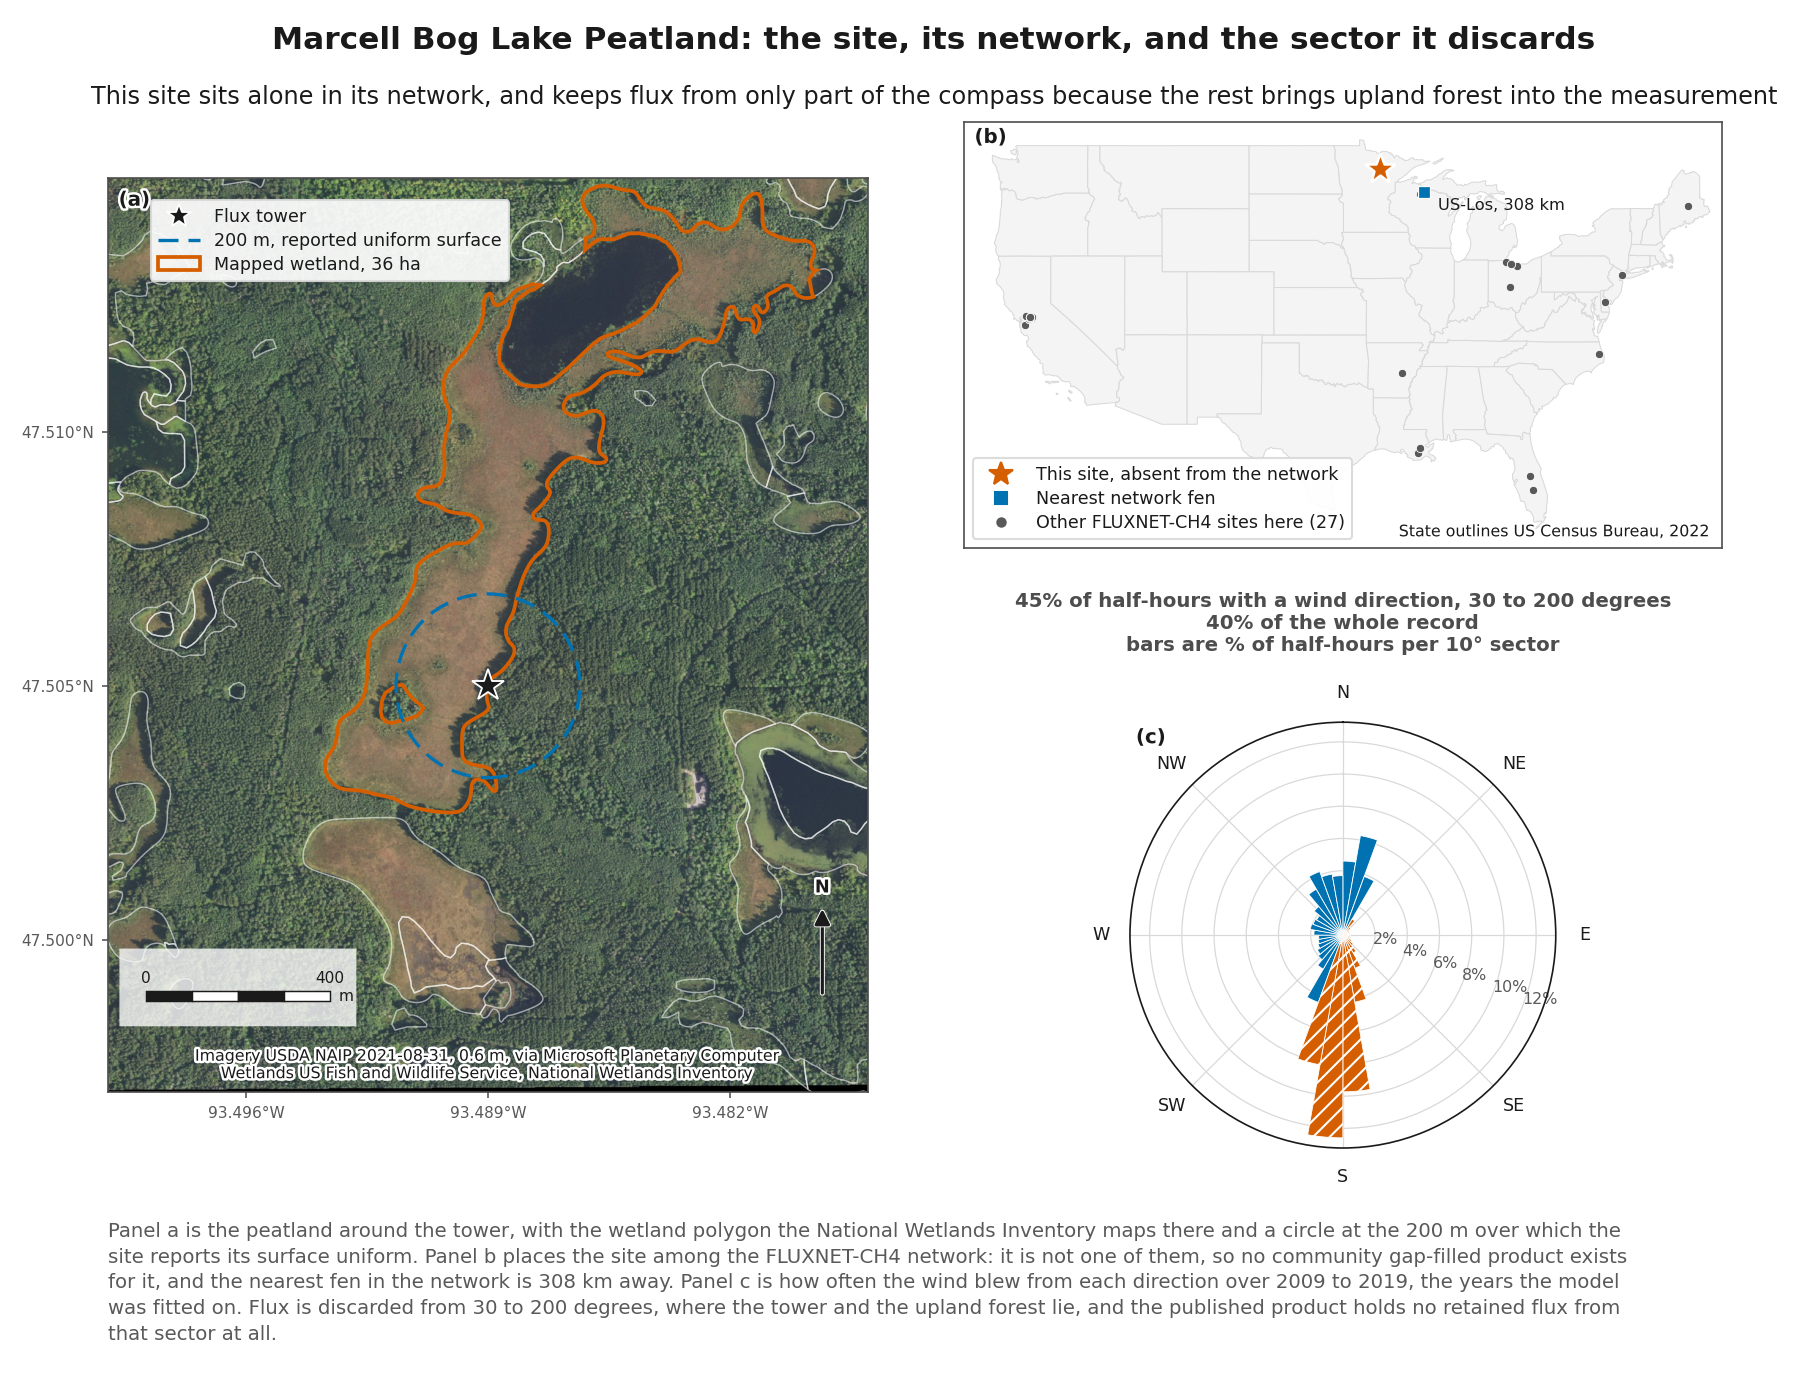
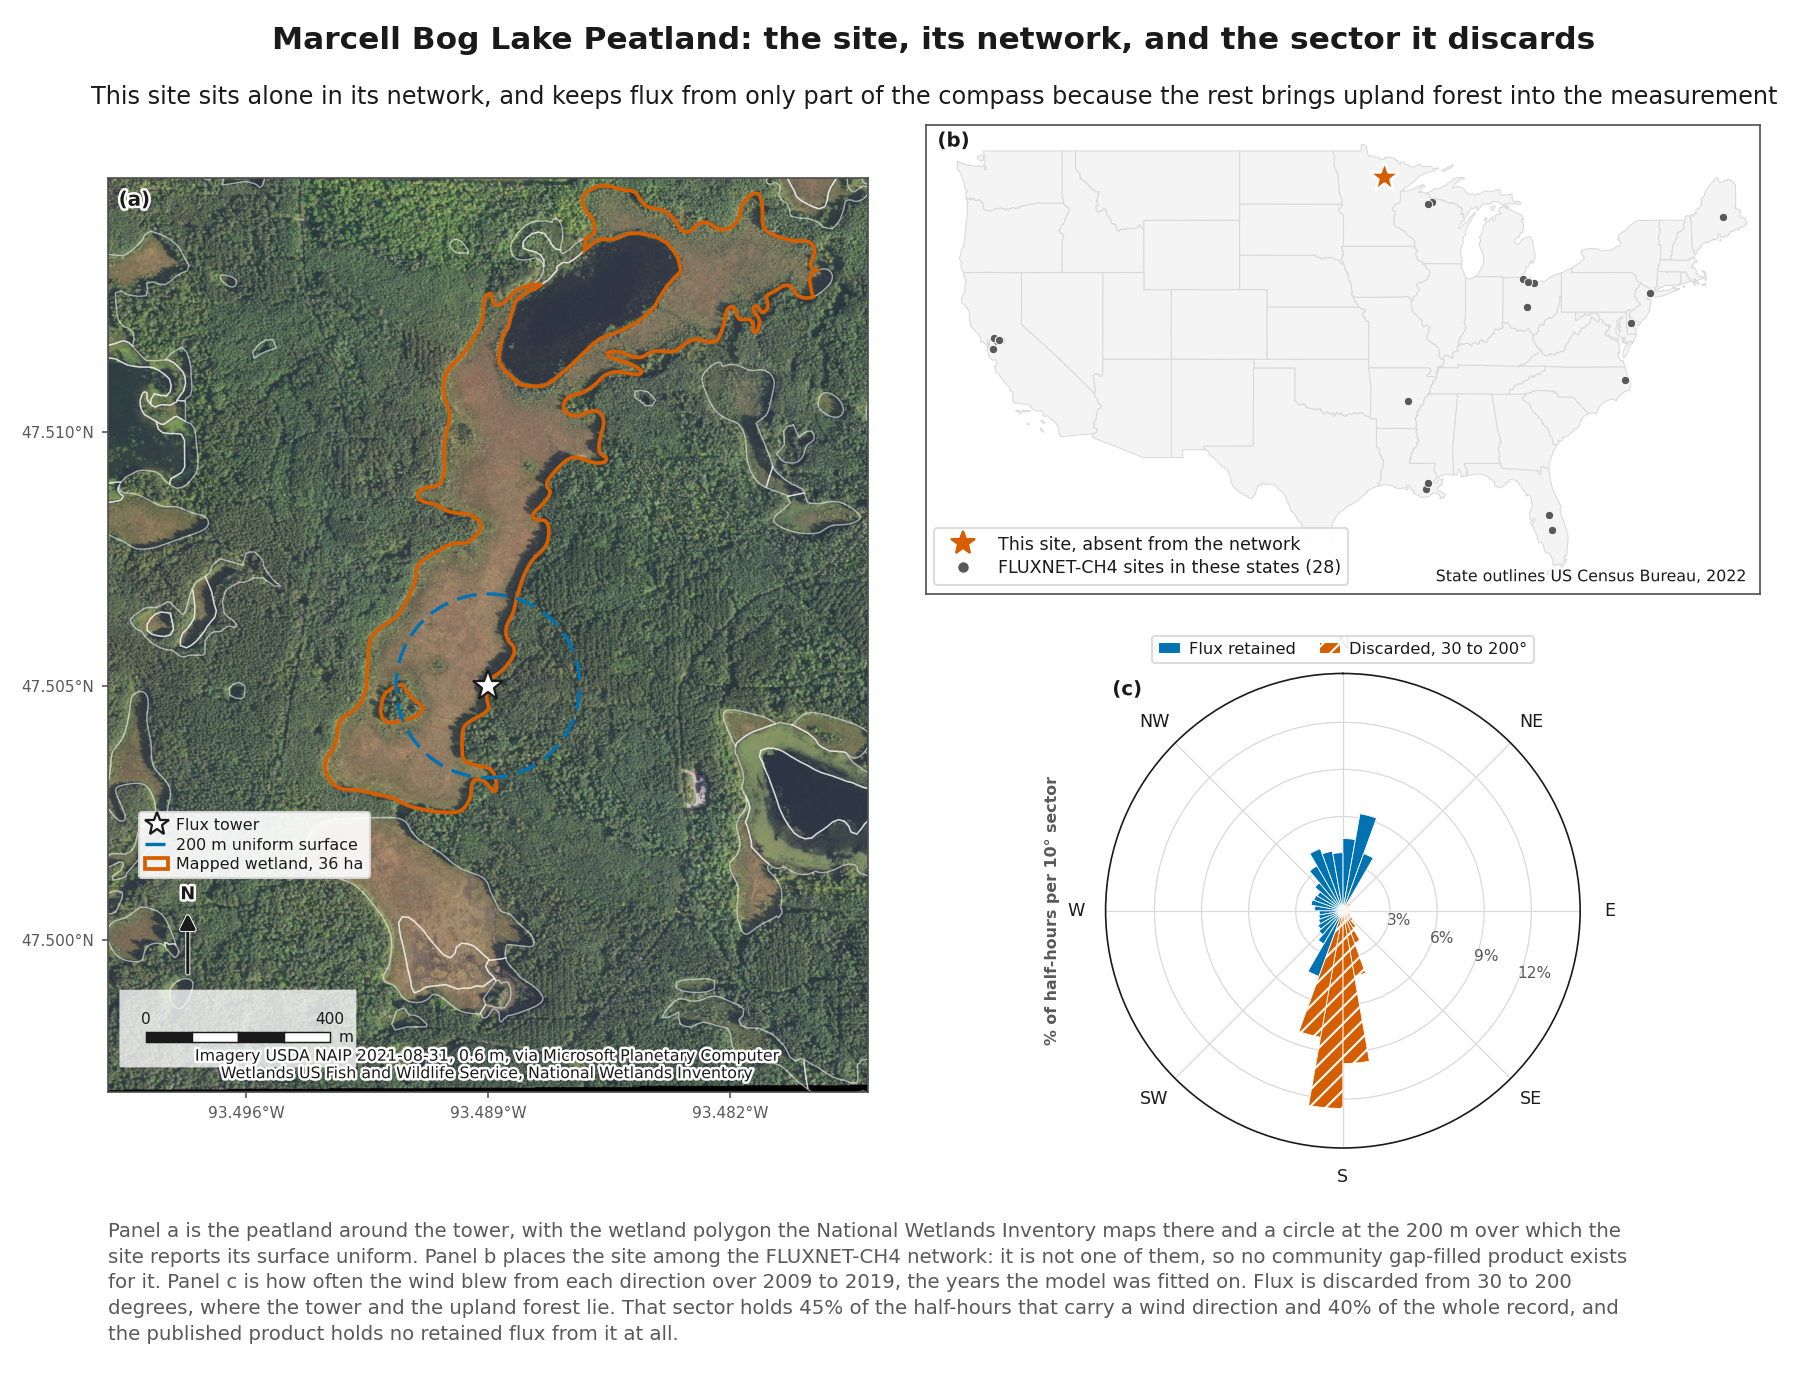
Drop the panel titles and key the wind rose
One panel carried a title and the others did not, and its three stacked lines
described three different things. Remove it. The two shares move into the
description, where they can be said in a sentence: the sector holds 45% of the
half-hours that carry a wind direction and 40% of the whole record. The bar
unit becomes the radial axis label.

With no title, nothing said what the two colors in the rose meant, so it gains
a two-entry key above the bars. Radial rings stop short of the outer edge so
no label sits on the frame.

Take the nearest network fen off the site map. The panel's claim is that this
site is not in the network, which the dots make on their own; marking the
nearest fen asked the reader to work out why 308 km mattered.

Shrink the site legend and stack it with the north arrow and scale bar as one
apparatus block in the lower left, clear of the mapped wetland it was covering.

Give the tower a white star with a dark edge, which reads the same over dark
forest, over light peat, and on the legend's white ground. The previous filled
marker with a white halo read as two different markers in the two places.

diff --git a/src/study/sitemap.py b/src/study/sitemap.py
@@ -30,7 +30,8 @@ from study import plotstyle as ps
 #: Extent of the imagery crop, degrees, matching the file stored under geodata/.
 IMAGE_BOUNDS = (-93.500, 47.497, -93.478, 47.515)
 
-#: Imagery provenance, stated inside the panel that uses it.
+#: Imagery provenance. The scene identifier is not drawn, but it is what makes
+#: the stored crop reproducible, so it is recorded beside the credit that is.
 IMAGE_SCENE = "mn_m_4709329_sw_15_060_20210831"
 IMAGE_DATE = "2021-08-31"
 IMAGE_CREDIT = "Imagery USDA NAIP 2021-08-31, 0.6 m, via Microsoft Planetary Computer"
@@ -44,11 +45,11 @@ SURFACE_HOMOGENEITY_M = 200.0
 EXCLUDED_SECTOR = (30.0, 200.0)
 
 #: The tower, drawn the same way on the map and in the legend.
-TOWER_MARKER = dict(marker="*", markersize=16, markerfacecolor=ps.INK,
-                    markeredgecolor="white", markeredgewidth=0.9, linestyle="none")
+#: White fill with a dark edge, so the tower reads the same over dark forest,
+#: over light peat, and on the legend's white ground.
+TOWER_MARKER = dict(marker="*", markersize=15, markerfacecolor="white",
+                    markeredgecolor=ps.INK, markeredgewidth=1.1, linestyle="none")
 
-#: The nearest network site of the same wetland class, named in the notes.
-NEAREST_FEN = "US-Los"
 
 SITEMAP_TEXT = ps.FigureText(
     title="Marcell Bog Lake Peatland: the site, its network, and the sector it discards",
@@ -61,11 +62,12 @@ SITEMAP_TEXT = ps.FigureText(
         "National Wetlands Inventory maps there and a circle at the 200 m over which "
         "the site reports its surface uniform. Panel b places the site among the "
         "FLUXNET-CH4 network: it is not one of them, so no community gap-filled "
-        "product exists for it, and the nearest fen in the network is 308 km away. "
-        "Panel c is how often the wind blew from each direction over 2009 to 2019, "
-        "the years the model was fitted on. Flux is discarded from 30 to 200 "
-        "degrees, where the tower and the upland forest lie, and the published "
-        "product holds no retained flux from that sector at all."
+        "product exists for it. Panel c is how often the wind blew from each "
+        "direction over 2009 to 2019, the years the model was fitted on. Flux is "
+        "discarded from 30 to 200 degrees, where the tower and the upland forest "
+        "lie. That sector holds 45% of the half-hours that carry a wind direction "
+        "and 40% of the whole record, and the published product holds no retained "
+        "flux from it at all."
     ),
 )
 
@@ -178,8 +180,8 @@ def draw_site(ax, image, wetlands: dict, origin: tuple[float, float]) -> None:
     for spine in ax.spines.values():
         spine.set_edgecolor(ps.BOUNDARY)
 
-    ps.scale_bar(ax, 400)
-    ps.north_arrow(ax)
+    ps.scale_bar(ax, 400, corner=(0.05, 0.055))
+    ps.north_arrow(ax, at=(0.105, 0.145), size=0.055)
     ps.credit(ax, f"{IMAGE_CREDIT}\n{WETLAND_CREDIT}")
 
     acres = tower_ring["acres"] if tower_ring else 0.0
@@ -187,13 +189,13 @@ def draw_site(ax, image, wetlands: dict, origin: tuple[float, float]) -> None:
         Line2D([], [], label="Flux tower",
                **{**TOWER_MARKER, "markersize": 12}),
         Line2D([], [], color=ps.INSIDE, linestyle=(0, (6, 3)), linewidth=1.6,
-               label=f"{SURFACE_HOMOGENEITY_M:.0f} m, reported uniform surface"),
+               label=f"{SURFACE_HOMOGENEITY_M:.0f} m uniform surface"),
         Patch(facecolor="none", edgecolor=ps.OUTSIDE, linewidth=1.8,
               label=f"Mapped wetland, {acres * 0.4047:.0f} ha"),
     ]
     ps.legend(ax, handles=handles, labels=[h.get_label() for h in handles],
-              loc="upper left", fontsize=8.4, borderpad=0.42, labelspacing=0.34,
-              bbox_to_anchor=(0.045, 0.985))
+              loc="lower left", fontsize=7.6, borderpad=0.38, labelspacing=0.3,
+              handlelength=1.5, handletextpad=0.5, bbox_to_anchor=(0.03, 0.225))
 
 
 def _coordinate_ticks(ax, origin: tuple[float, float]) -> None:
@@ -223,19 +225,10 @@ def draw_network(ax, states: dict, sites: pd.DataFrame,
                                  edgecolor=ps.GRID, linewidth=0.5, zorder=0))
 
     inside = sites[sites.LON.between(-128, -65) & sites.LAT.between(24, 50)]
-    nearest = inside[inside.SITE_ID == NEAREST_FEN]
-    others = inside[inside.SITE_ID != NEAREST_FEN]
-    ax.plot(others.LON, others.LAT, linestyle="none", marker="o", markersize=4.0,
+    ax.plot(inside.LON, inside.LAT, linestyle="none", marker="o", markersize=4.0,
             color=ps.MUTED, markeredgecolor="white", markeredgewidth=0.4, zorder=3)
-    ax.plot(nearest.LON, nearest.LAT, linestyle="none", marker="s", markersize=5.6,
-            color=ps.INSIDE, markeredgecolor="white", markeredgewidth=0.6, zorder=4)
     ax.plot(here[0], here[1], marker="*", markersize=15, color=ps.OUTSIDE,
             markeredgecolor="white", markeredgewidth=1.2, zorder=5)
-    if len(nearest):
-        ax.annotate(f"{NEAREST_FEN}, 308 km", xy=(float(nearest.LON.iloc[0]),
-                                                  float(nearest.LAT.iloc[0])),
-                    xytext=(7, -9), textcoords="offset points", ha="left",
-                    fontsize=7.8, color=ps.INK, zorder=6)
 
     ax.set_xlim(-127, -66); ax.set_ylim(23.5, 50.5)
     ax.set_aspect(1 / math.cos(math.radians(38)))
@@ -248,10 +241,8 @@ def draw_network(ax, states: dict, sites: pd.DataFrame,
     handles = [
         Line2D([], [], marker="*", color=ps.OUTSIDE, linestyle="none", markersize=12,
                label="This site, absent from the network"),
-        Line2D([], [], marker="s", color=ps.INSIDE, linestyle="none", markersize=5.6,
-               label="Nearest network fen"),
         Line2D([], [], marker="o", color=ps.MUTED, linestyle="none", markersize=4,
-               label=f"Other FLUXNET-CH4 sites here ({len(others)})"),
+               label=f"FLUXNET-CH4 sites in these states ({len(inside)})"),
     ]
     ps.legend(ax, handles=handles, labels=[h.get_label() for h in handles],
               loc="lower left", fontsize=8.4, borderpad=0.42, labelspacing=0.34)
@@ -280,26 +271,29 @@ def draw_sector(ax, shares: pd.DataFrame) -> None:
     ax.set_theta_direction(-1)
     ax.set_thetagrids(range(0, 360, 45), ["N", "NE", "E", "SE", "S", "SW", "W", "NW"],
                       fontsize=8.4)
+
+    # Rings stop short of the outer edge, so no radial label sits on the frame.
+    top = float(values.max())
+    step = 3.0 if top <= 13 else 5.0
+    rings = [r for r in np.arange(step, top + step, step) if r < top]
+    ax.set_ylim(0, top * 1.20)
+    ax.set_yticks(rings)
     ax.set_rlabel_position(112)
-    ax.tick_params(axis="y", labelsize=7.6, colors=ps.MUTED)
-    ax.grid(color=ps.GRID, linewidth=0.6)
-    ax.set_rlabel_position(112)
-    ax.tick_params(axis="y", labelsize=7.6, colors=ps.MUTED)
+    ax.tick_params(axis="y", labelsize=7.4, colors=ps.MUTED)
     ax.yaxis.set_major_formatter(lambda v, _: f"{v:g}%")
-    removed = float(values[excluded].sum())
-    recorded = shares.attrs.get("with_wind_direction")
-    total = shares.attrs.get("half_hours")
-    caption = f"{removed:.0f}% of half-hours with a wind direction, 30 to 200 degrees"
-    if recorded and total:
-        caption += f"\n{removed * recorded / total:.0f}% of the whole record"
-    caption += "\nbars are % of half-hours per 10\u00b0 sector"
-    ax.set_title(caption, fontsize=ps.LEGEND_SIZE, fontweight="bold",
-                 color=ps.BOUNDARY, pad=16)
+    ax.set_ylabel("% of half-hours per 10\u00b0 sector", fontsize=7.6,
+                  color=ps.MUTED, labelpad=22)
+    ax.grid(color=ps.GRID, linewidth=0.6)
 
-
-# --------------------------------------------------------------------------
-# The figure
-# --------------------------------------------------------------------------
+    handles = [
+        Patch(facecolor=ps.INSIDE, edgecolor="white", label="Flux retained"),
+        Patch(facecolor=ps.OUTSIDE, edgecolor="white", hatch=ps.OUTSIDE_HATCH,
+              label="Discarded, 30 to 200\u00b0"),
+    ]
+    ps.legend(ax, handles=handles, labels=[h.get_label() for h in handles],
+              loc="lower center", fontsize=7.8, borderpad=0.38, labelspacing=0.3,
+              handlelength=1.4, handletextpad=0.5, columnspacing=1.4, ncols=2,
+              bbox_to_anchor=(0.5, 1.005))
 
 
 def site_overview(image, wetlands: dict, states: dict, sites: pd.DataFrame,
@@ -312,7 +306,7 @@ def site_overview(image, wetlands: dict, states: dict, sites: pd.DataFrame,
     left_w = 0.46 * width
     right_w = width - left_w - gap
     right_x = left + left_w + gap
-    row_gap = 0.17 * height
+    row_gap = 0.075 * height
     row_h = (height - row_gap) / 2
 
     ax_site = fig.add_axes((left, bottom, left_w, height))

diff --git a/tests/test_sitemap.py b/tests/test_sitemap.py
@@ -86,12 +86,22 @@ def test_only_sites_in_the_mapped_states_are_plotted():
     assert all(n <= 1 for n in drawn)       # US-Los only; SE-Deg dropped
 
 
-def test_the_excluded_sector_is_marked_and_its_share_reported():
+def test_the_excluded_sector_is_marked_and_keyed():
+    """The panels carry no titles, so the sector needs a key of its own."""
     fig = sitemap.site_overview(image(), wetlands(), states(), sites(), shares())
     rose = fig.axes[2]
     hatched = [b for b in rose.patches if b.get_hatch()]
     assert len(hatched) == 17               # 30 to 200 degrees in ten-degree steps
-    assert "%" in rose.get_title()
+    keyed = " ".join(t.get_text() for t in rose.get_legend().get_texts())
+    assert "Discarded" in keyed and "retained" in keyed
+    assert "%" in rose.get_ylabel()
+    ps.plt.close(fig)
+
+
+def test_no_panel_carries_a_title():
+    """Titles on one panel and not the others read as unbalanced."""
+    fig = sitemap.site_overview(image(), wetlands(), states(), sites(), shares())
+    assert not any(ax.get_title() for ax in fig.axes[:3])
     ps.plt.close(fig)
 
 

diff --git a/figures/README_fragments.md b/figures/README_fragments.md
@@ -12,4 +12,4 @@ Reconstruction means estimating methane emissions for years before measurements 
 
 **This site sits alone in its network, and keeps flux from only part of the compass because the rest brings upland forest into the measurement**
 
-Panel a is the peatland around the tower, with the wetland polygon the National Wetlands Inventory maps there and a circle at the 200 m over which the site reports its surface uniform. Panel b places the site among the FLUXNET-CH4 network: it is not one of them, so no community gap-filled product exists for it, and the nearest fen in the network is 308 km away. Panel c is how often the wind blew from each direction over 2009 to 2019, the years the model was fitted on. Flux is discarded from 30 to 200 degrees, where the tower and the upland forest lie, and the published product holds no retained flux from that sector at all.
+Panel a is the peatland around the tower, with the wetland polygon the National Wetlands Inventory maps there and a circle at the 200 m over which the site reports its surface uniform. Panel b places the site among the FLUXNET-CH4 network: it is not one of them, so no community gap-filled product exists for it. Panel c is how often the wind blew from each direction over 2009 to 2019, the years the model was fitted on. Flux is discarded from 30 to 200 degrees, where the tower and the upland forest lie. That sector holds 45% of the half-hours that carry a wind direction and 40% of the whole record, and the published product holds no retained flux from it at all.
